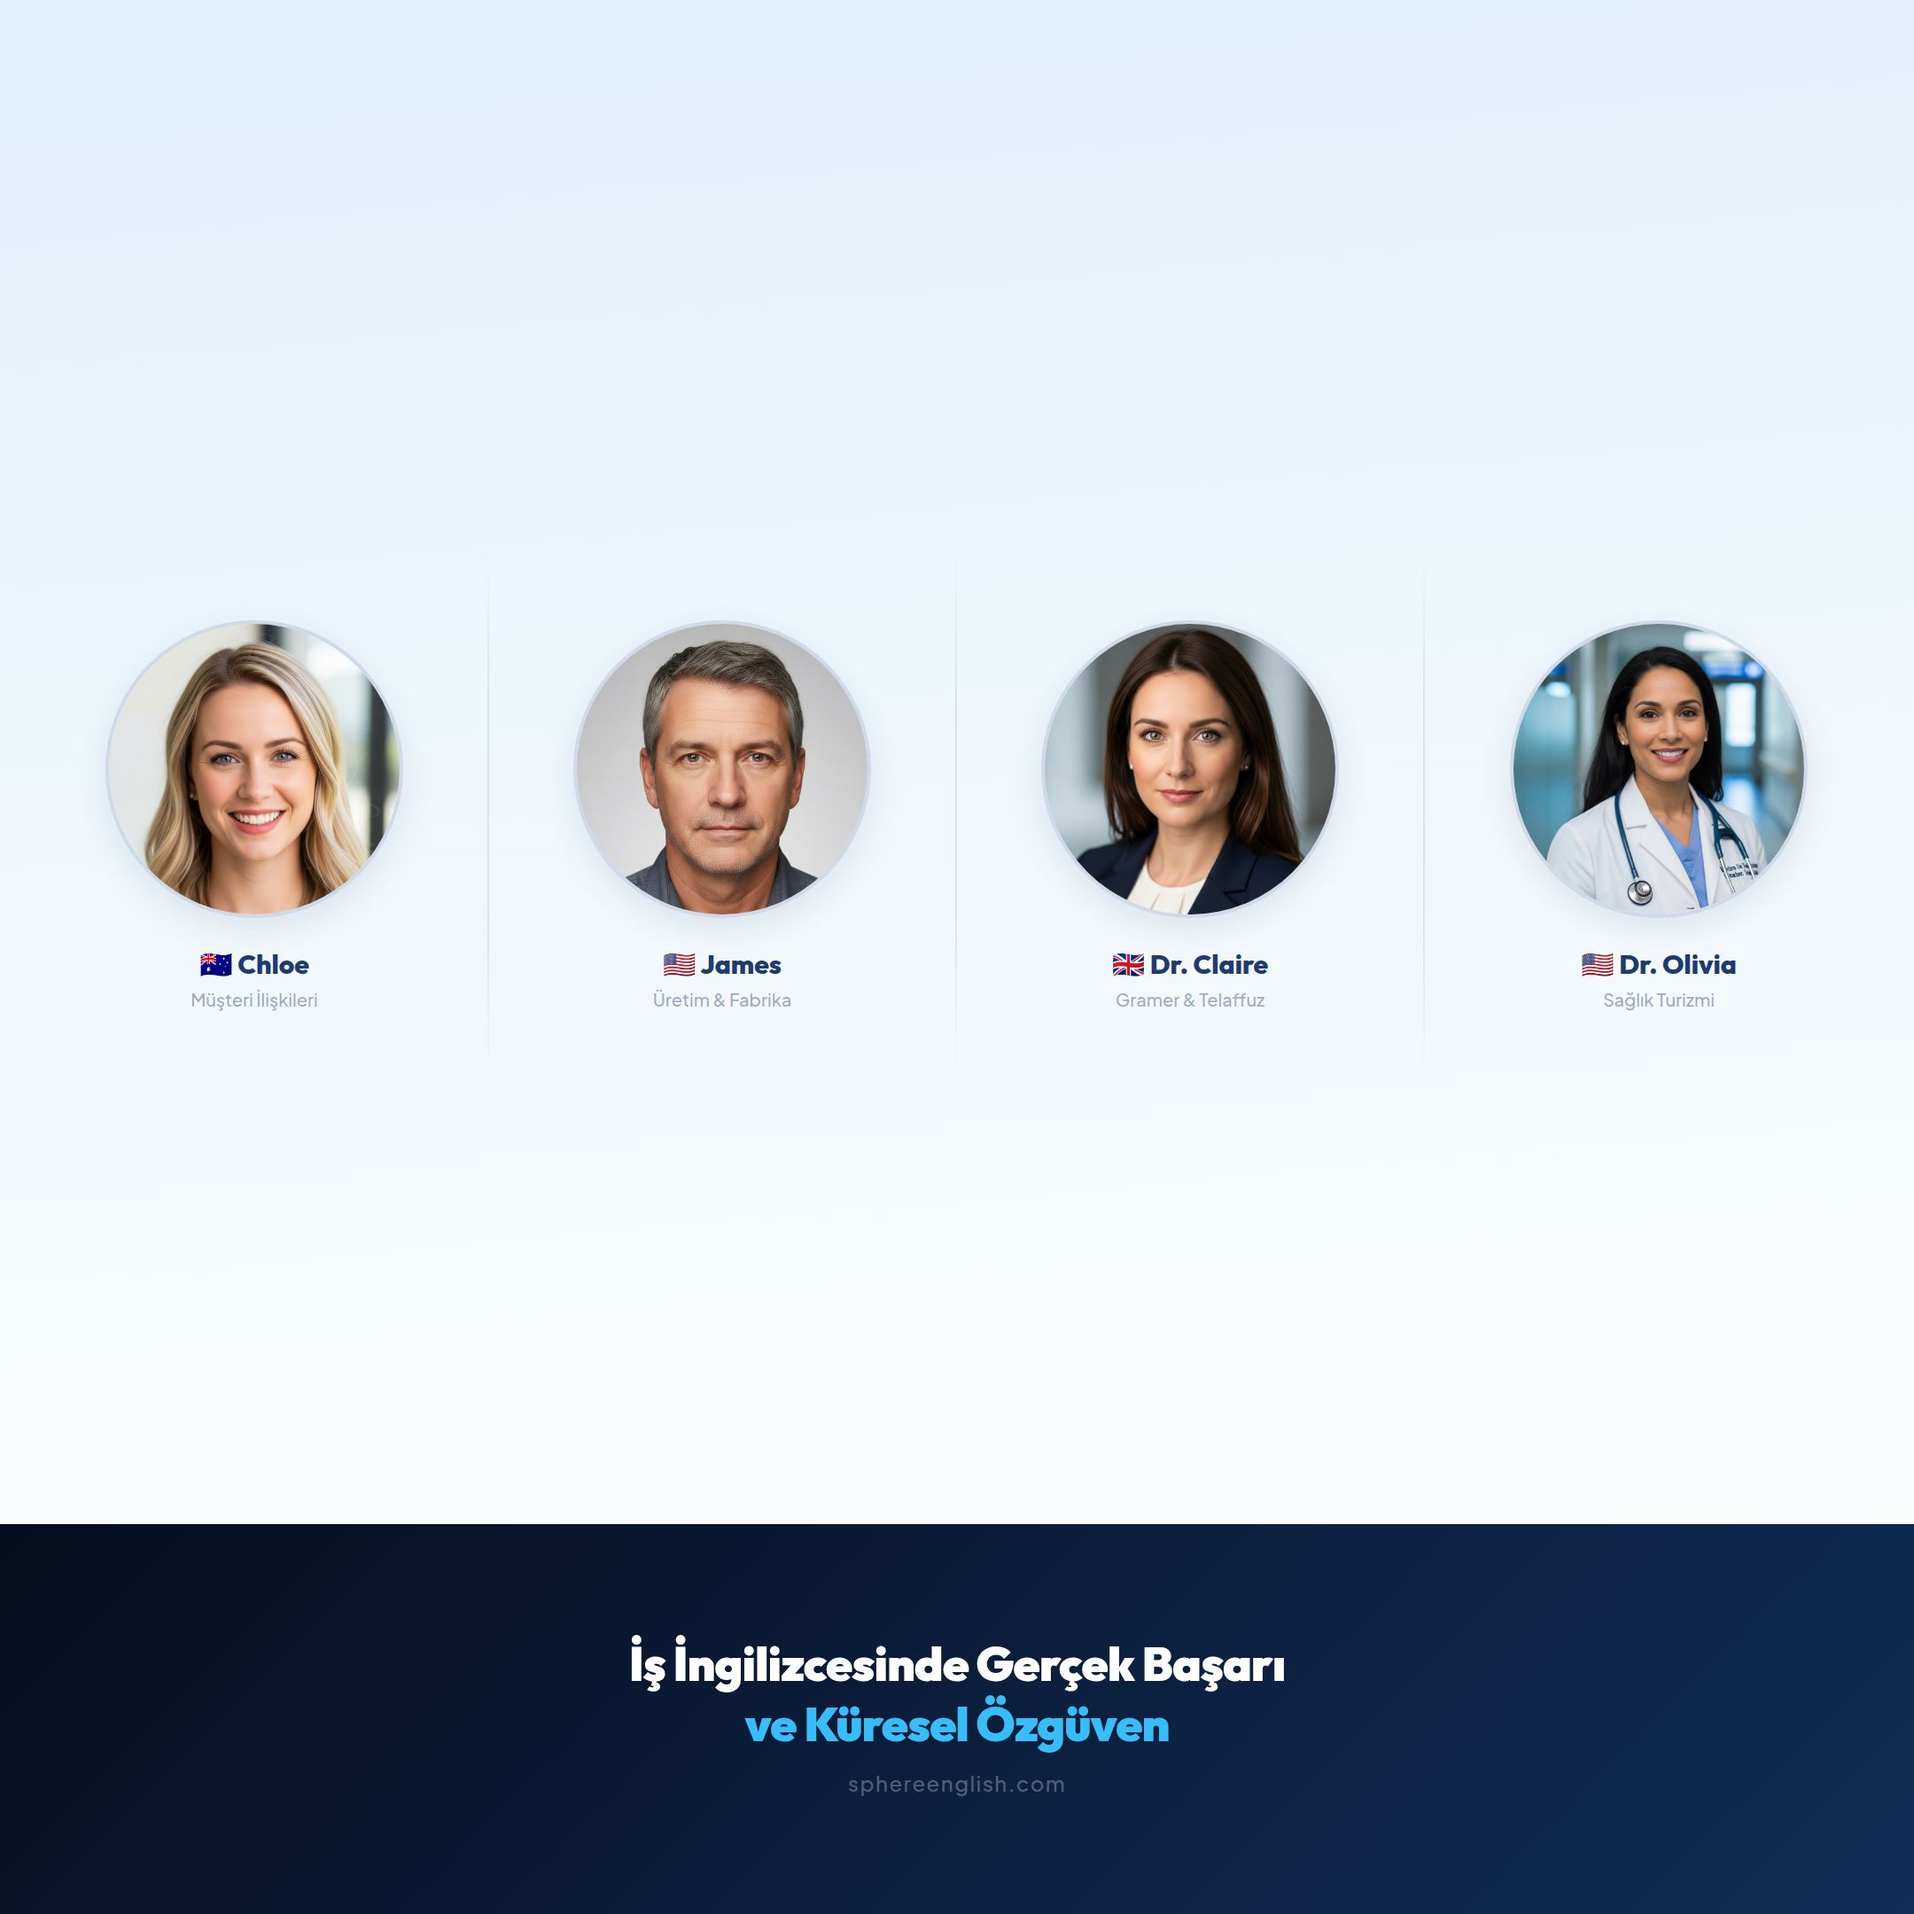
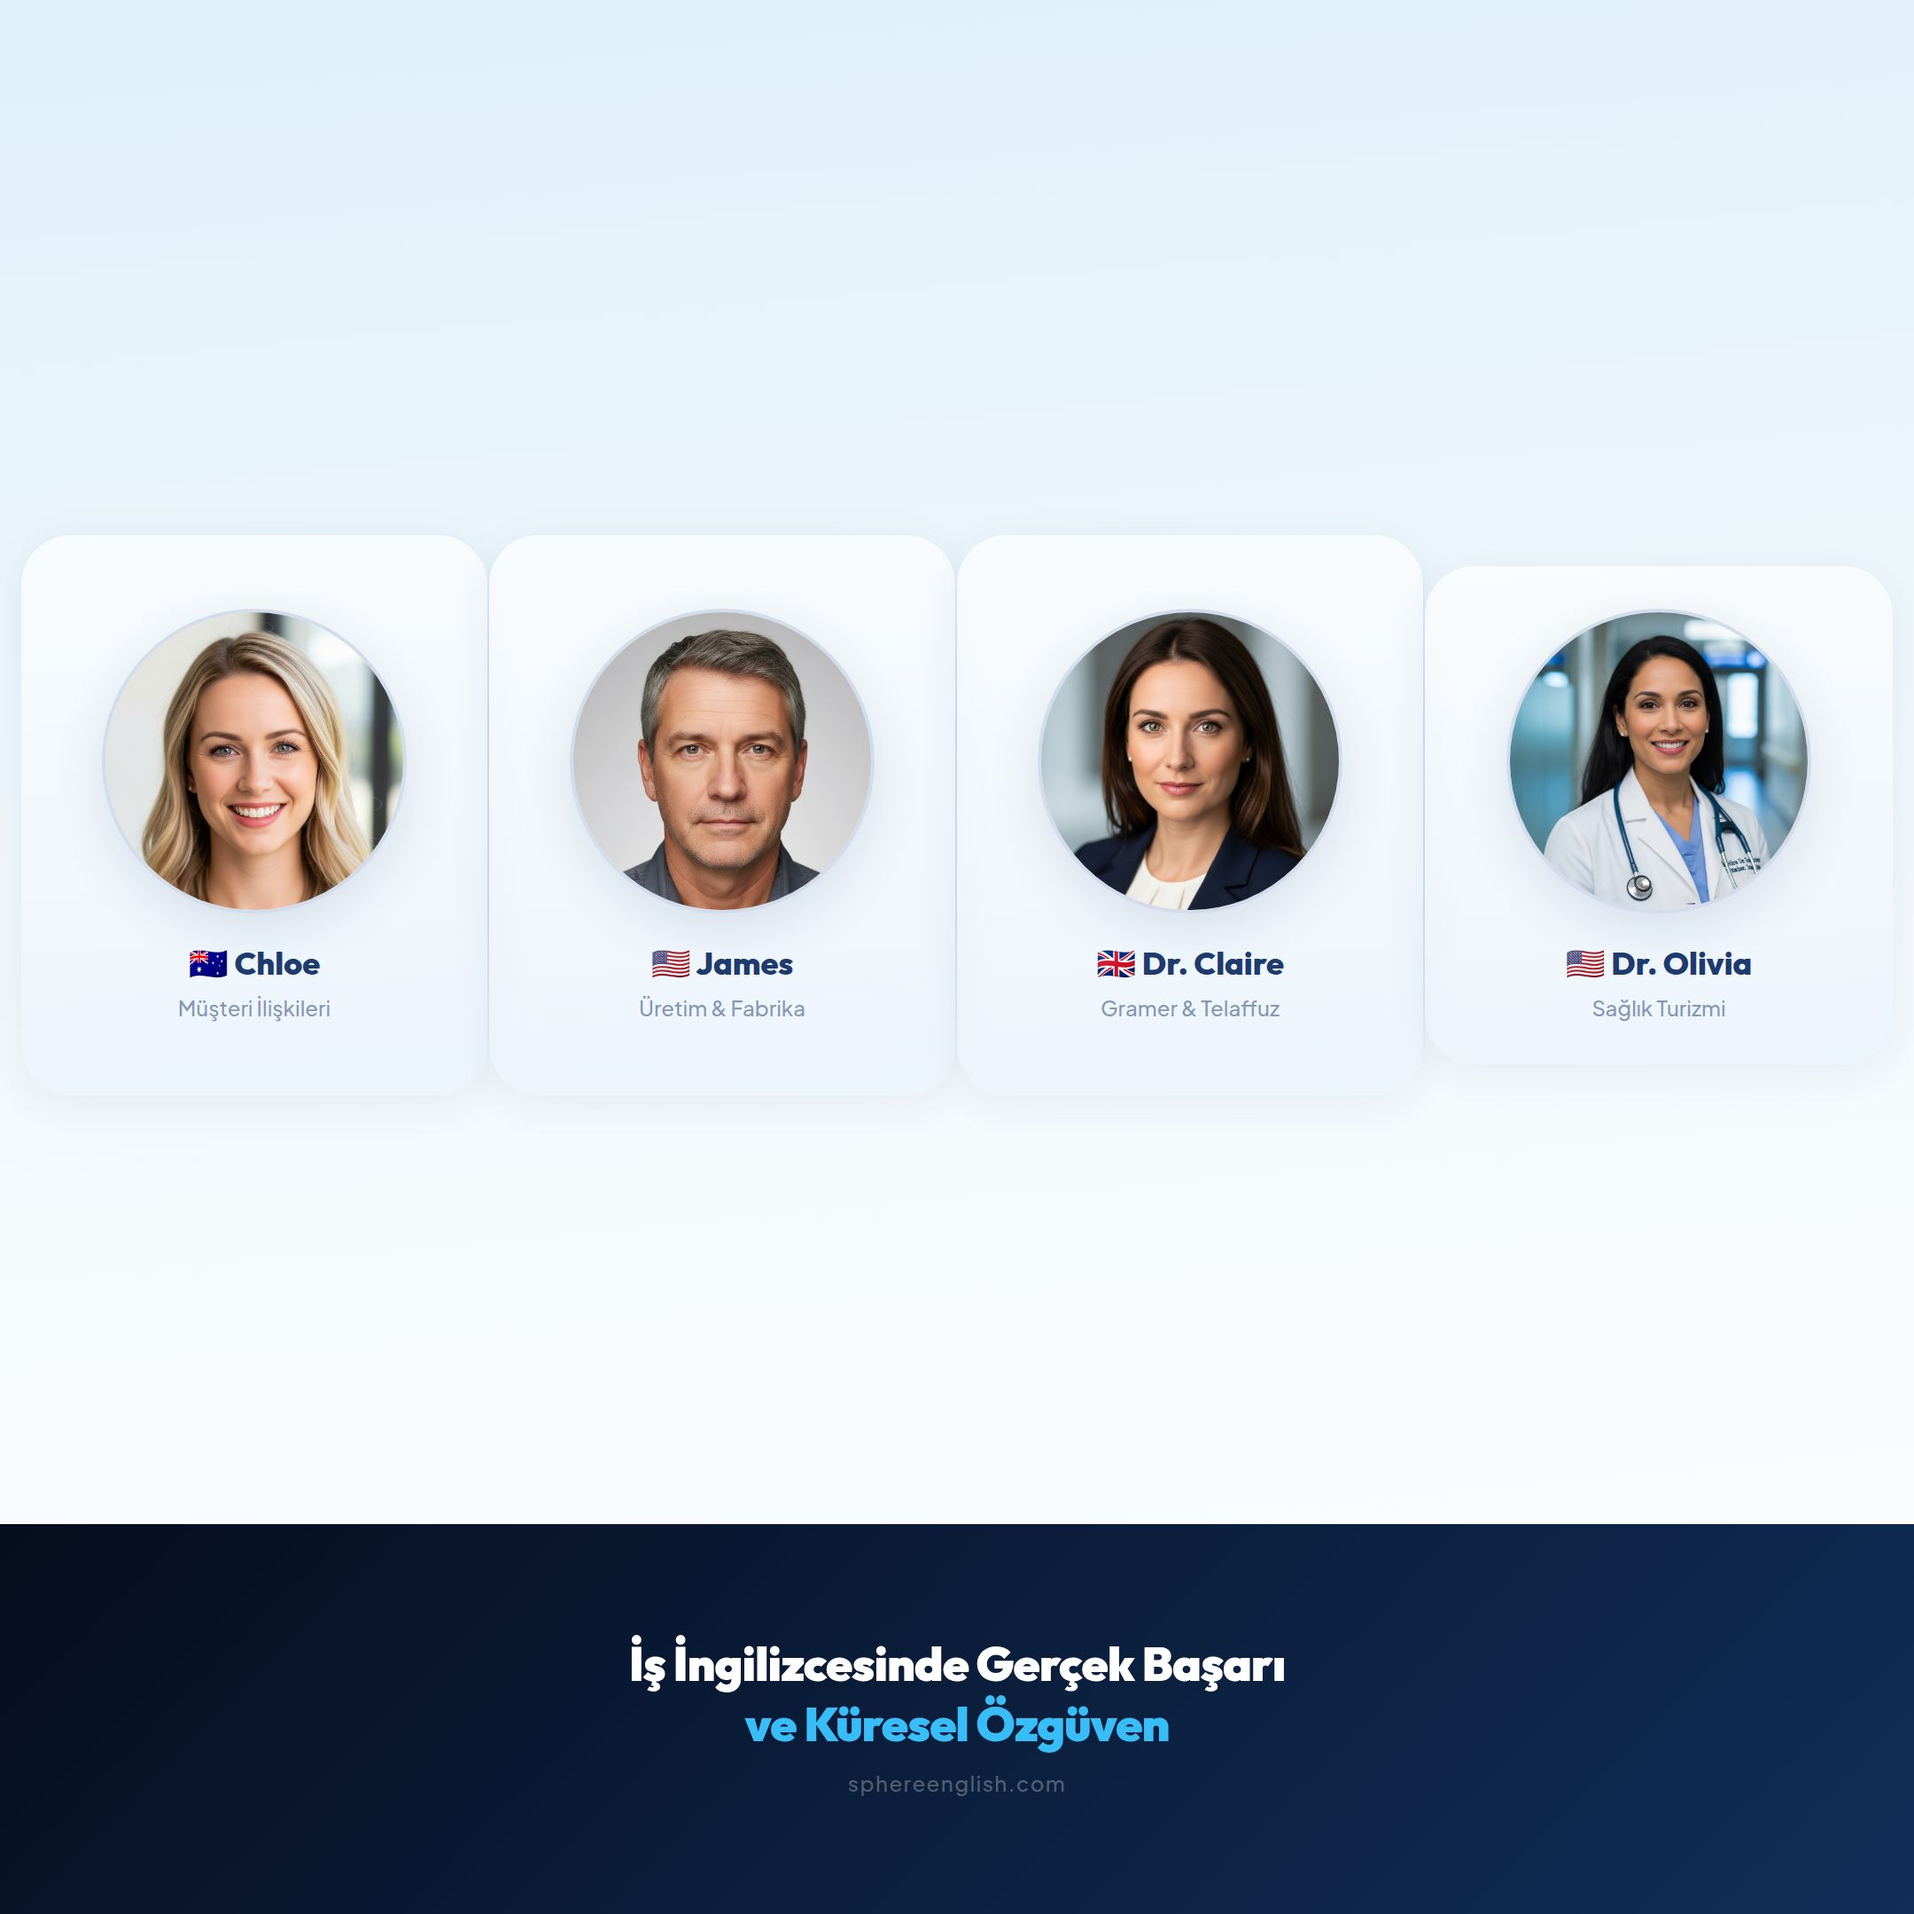
Add subtle card effects and larger text to all coach profiles
Updates TeamPost.tsx to apply a soft card background and shadow to all coach elements, and increases the font sizes for coach names and specialties.

Replit-Commit-Author: Agent
Replit-Commit-Session-Id: 7828208e-226c-43ef-9a3e-875997ce7956
Replit-Commit-Checkpoint-Type: full_checkpoint
Replit-Commit-Event-Id: 477d2767-aae3-4caa-8b4e-2f75b9baffa9
Replit-Commit-Screenshot-Url: https://storage.googleapis.com/screenshot-production-us-central1/f780e6cf-cd3b-477f-8b05-3e4b163e7069/7828208e-226c-43ef-9a3e-875997ce7956/jmDb1qN
Replit-Helium-Checkpoint-Created: true

diff --git a/artifacts/mockup-sandbox/src/components/mockups/instagram-post/TeamPost.tsx b/artifacts/mockup-sandbox/src/components/mockups/instagram-post/TeamPost.tsx
@@ -79,7 +79,7 @@ const Panel = ({ coaches, msgIdx }: { coaches: Coach[]; msgIdx: number }) => {
       }}>
         {coaches.map((c, i) => {
           const isSterling = !!c.isSterling;
-          const avatarD = isSterling ? px(192) : px(168);
+          const avatarD = isSterling ? px(192) : px(172);
 
           return (
             <div key={c.name} style={{ display: "flex", alignItems: "stretch", flex: 1 }}>
@@ -92,15 +92,15 @@ const Panel = ({ coaches, msgIdx }: { coaches: Coach[]; msgIdx: number }) => {
                 padding: `${px(24)}px ${px(6)}px`,
                 position: "relative",
                 background: isSterling
-                  ? "linear-gradient(175deg,rgba(56,189,248,0.06) 0%,rgba(30,58,110,0.04) 100%)"
-                  : "transparent",
-                borderRadius: isSterling ? px(28) : 0,
+                  ? "linear-gradient(175deg,rgba(56,189,248,0.07) 0%,rgba(30,58,110,0.05) 100%)"
+                  : "linear-gradient(175deg,rgba(255,255,255,0.72) 0%,rgba(230,240,252,0.55) 100%)",
+                borderRadius: px(28),
                 boxShadow: isSterling
-                  ? `0 ${px(8)}px ${px(40)}px rgba(30,58,110,0.10)`
-                  : "none",
+                  ? `0 ${px(8)}px ${px(44)}px rgba(30,58,110,0.13)`
+                  : `0 ${px(4)}px ${px(24)}px rgba(30,58,110,0.07)`,
                 zIndex: isSterling ? 2 : 1,
-                marginTop:    isSterling ? px(-20) : 0,
-                marginBottom: isSterling ? px(-20) : 0,
+                marginTop:    isSterling ? px(-20) : px(-8),
+                marginBottom: isSterling ? px(-20) : px(-8),
               }}>
                 {/* Avatar */}
                 <div style={{
@@ -108,10 +108,10 @@ const Panel = ({ coaches, msgIdx }: { coaches: Coach[]; msgIdx: number }) => {
                   borderRadius: "50%", overflow: "hidden", flexShrink: 0,
                   border: isSterling
                     ? `${px(3.5)}px solid ${GOLD}`
-                    : `${px(2)}px solid rgba(30,58,110,0.12)`,
+                    : `${px(2)}px solid rgba(30,58,110,0.10)`,
                   boxShadow: isSterling
                     ? `0 0 0 ${px(5)}px rgba(245,158,11,0.16), 0 ${px(12)}px ${px(40)}px rgba(30,58,110,0.20)`
-                    : `0 ${px(6)}px ${px(18)}px rgba(30,58,110,0.10)`,
+                    : `0 ${px(8)}px ${px(28)}px rgba(30,58,110,0.13)`,
                   background: "#e8effa",
                 }}>
                   <img
@@ -121,14 +121,14 @@ const Panel = ({ coaches, msgIdx }: { coaches: Coach[]; msgIdx: number }) => {
                 </div>
 
                 {/* İsim + uzmanlık */}
-                <div style={{ textAlign: "center", display: "flex", flexDirection: "column", gap: px(5) }}>
+                <div style={{ textAlign: "center", display: "flex", flexDirection: "column", gap: px(8) }}>
                   <div style={{
-                    fontSize: px(isSterling ? 17 : 15), fontWeight: 800, color: PRIMARY,
+                    fontSize: px(isSterling ? 20 : 18), fontWeight: 800, color: PRIMARY,
                     fontFamily: '"Outfit", sans-serif', lineHeight: 1.1,
                   }}>{c.flag} {c.name}</div>
                   <div style={{
-                    fontSize: px(10), fontWeight: 500,
-                    color: isSterling ? "rgba(30,58,110,0.65)" : "rgba(30,58,110,0.42)",
+                    fontSize: px(isSterling ? 13 : 12), fontWeight: 500,
+                    color: isSterling ? "rgba(30,58,110,0.70)" : "rgba(30,58,110,0.52)",
                     fontFamily: '"Plus Jakarta Sans", sans-serif', lineHeight: 1.3,
                   }}>{c.specialty}</div>
                 </div>
